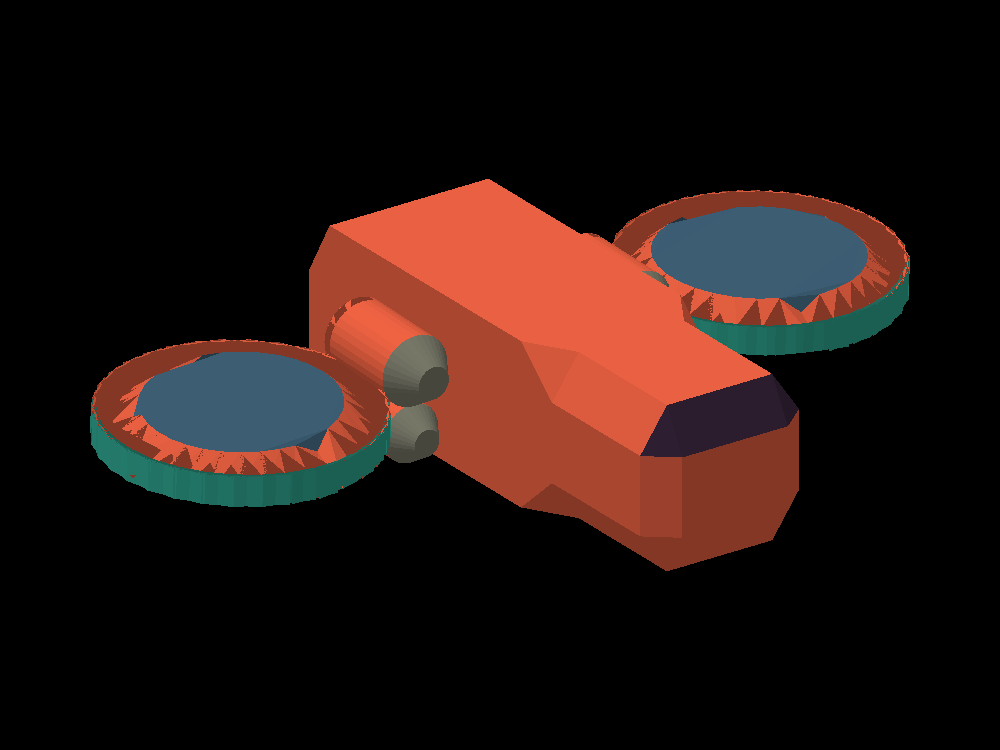
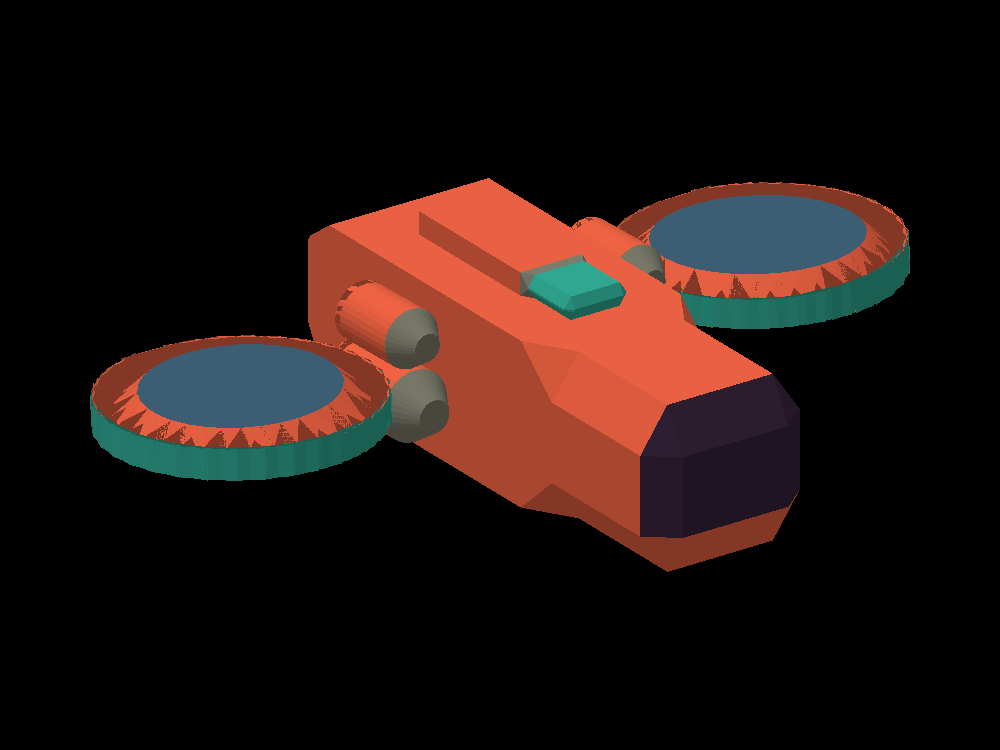
Volteando la nave, ventana mas grande y colores de la salidita

diff --git a/NaveRenderer/obj_loader.h b/NaveRenderer/obj_loader.h
@@ -107,11 +107,21 @@ inline void assignParts(Mesh& mesh) {
         } else {
             t.part=Part::Body;
             Vec3 n=normalized(cross(b-a,c-a));
+            float minX=std::min({a.x,b.x,c.x}),maxX=std::max({a.x,b.x,c.x});
             // CAMBIA ESTA REGLA si quieres otra superficie como ventana.
-            // Interpretacion: bisel superior del frente (extremo X positivo).
-            if(std::min({a.x,b.x,c.x})>1.20f &&
-               std::min({a.y,b.y,c.y})>-0.95f && n.y>0.2f && n.x>0.2f)
+            // El frente (X positivo) es un cubo biselado: visto de frente es
+            // una cuadricula 3x3. Como la nave se dibuja volteada, la fila de
+            // abajo del OBJ (n.y<0) queda arriba en pantalla. Ventana = esa
+            // fila (1 2 3) + la fila del medio (4 5 6); se excluye la otra.
+            if(minX>1.20f && n.x>0.2f && n.y<0.2f)
                 t.part=Part::Window;
+            // Salidita debajo del cuerpo en el OBJ (arriba ya volteada).
+            // Del frente hacia atras: punta teal, anillo gris, caja salmon.
+            else if(std::min({a.y,b.y,c.y})<-1.85f) {
+                if(minX<-1.0f) t.part=Part::RidgeBack;
+                else if(maxX<-0.6f) t.part=Part::RidgeMiddle;
+                else t.part=Part::RidgeFront;
+            }
             // Techo: caras casi horizontales situadas arriba del cuerpo.
             else if(std::min({a.y,b.y,c.y})>-0.60f && n.y>0.8f)
                 t.part=Part::Roof;

diff --git a/NaveRenderer/colors.h b/NaveRenderer/colors.h
@@ -4,7 +4,8 @@
 
 struct Color { uint8_t r, g, b; };
 enum class Part { Body, LeftTurbine, RightTurbine, TurbineRim, TurbineCore,
-                  LowerCylinders, UpperCylinders, Nozzle, Roof, Window };
+                  LowerCylinders, UpperCylinders, Nozzle, Roof, Window,
+                  RidgeFront, RidgeMiddle, RidgeBack };
 
 // CAMBIA ESTOS RGB (valores de 0 a 255).
 // Colores tomados de la imagen de referencia de la nave.
@@ -30,7 +31,10 @@ inline Color colorForPart(Part part) {
         case Part::UpperCylinders: return ORANGE;      // Capsulas de los motores.
         case Part::Nozzle:         return NOZZLE_GRAY; // Punta y tapa de los cilindros.
         case Part::Roof:           return ORANGE;      // Parte de arriba del cuerpo.
-        case Part::Window:         return DARK_PURPLE; // Vidrio inclinado de la cabina.
+        case Part::Window:         return DARK_PURPLE; // Filas 1-2-3 y 4-5-6 del frente.
+        case Part::RidgeFront:     return TEAL;        // Salidita de arriba: punta.
+        case Part::RidgeMiddle:    return NOZZLE_GRAY; // Salidita de arriba: anillo gris.
+        case Part::RidgeBack:      return ORANGE;      // Salidita de arriba: caja trasera.
     }
     return ORANGE;
 }

diff --git a/NaveRenderer/renderer.h b/NaveRenderer/renderer.h
@@ -5,6 +5,8 @@
 #include "geometry.h"
 
 inline constexpr int SCREEN_WIDTH=1000, SCREEN_HEIGHT=750;
+// true = dibuja la nave volteada (la parte de abajo del OBJ queda arriba).
+inline constexpr bool FLIP_UPSIDE_DOWN=true;
 struct ScreenVertex {float x,y,z;};
 
 class Framebuffer {
@@ -74,7 +76,13 @@ inline void render(const Mesh& mesh,Framebuffer& fb,float yaw,float pitch) {
     }
     Vec3 center=(lo+hi)*0.5f;
     std::vector<Vec3> rotated;
-    for(Vec3 p:mesh.vertices) rotated.push_back(rotate(p-center,yaw,pitch));
+    for(Vec3 p:mesh.vertices) {
+        p=p-center;
+        // El OBJ viene de cabeza: giro de 180 grados sobre el eje X (el largo
+        // de la nave). Asi la salidita queda arriba y la nariz sigue al frente.
+        if(FLIP_UPSIDE_DOWN) p={p.x,-p.y,-p.z};
+        rotated.push_back(rotate(p,yaw,pitch));
+    }
     float minX=1e30f,minY=1e30f,maxX=-1e30f,maxY=-1e30f;
     for(const auto& t:mesh.triangles) for(int i:t.indices) {
         Vec3 p=rotated[i];

diff --git a/README.md b/README.md
@@ -39,7 +39,14 @@ a exportar, revisalas.
 | `UpperCylinders` | Capsulas de los motores | Naranja rojizo |
 | `Nozzle` | Cono y tapa frontal de los cilindros (toberas) | Gris |
 | `Roof` | Superficies horizontales de arriba | Naranja rojizo |
-| `Window` | Bisel superior del frente, extremo X positivo | Morado oscuro |
+| `Window` | Frente visto como cuadricula 3x3: filas 1-2-3 y 4-5-6 | Morado oscuro |
+| `RidgeFront` | Salidita de arriba: punta delantera | Turquesa |
+| `RidgeMiddle` | Salidita de arriba: anillo intermedio | Gris |
+| `RidgeBack` | Salidita de arriba: caja trasera | Naranja rojizo |
+
+El OBJ viene de cabeza, asi que `render` lo dibuja girado 180 grados sobre el eje X
+(`FLIP_UPSIDE_DOWN` en `renderer.h`). Las reglas de `assignParts` usan las
+coordenadas originales del OBJ, por eso la ventana usa las caras con `n.y < 0`.
 
 La identificacion del vidrio es una interpretacion visual del modelo, no una
 etiqueta de Blender. Si te referias a otra zona, cambia la regla comentada
